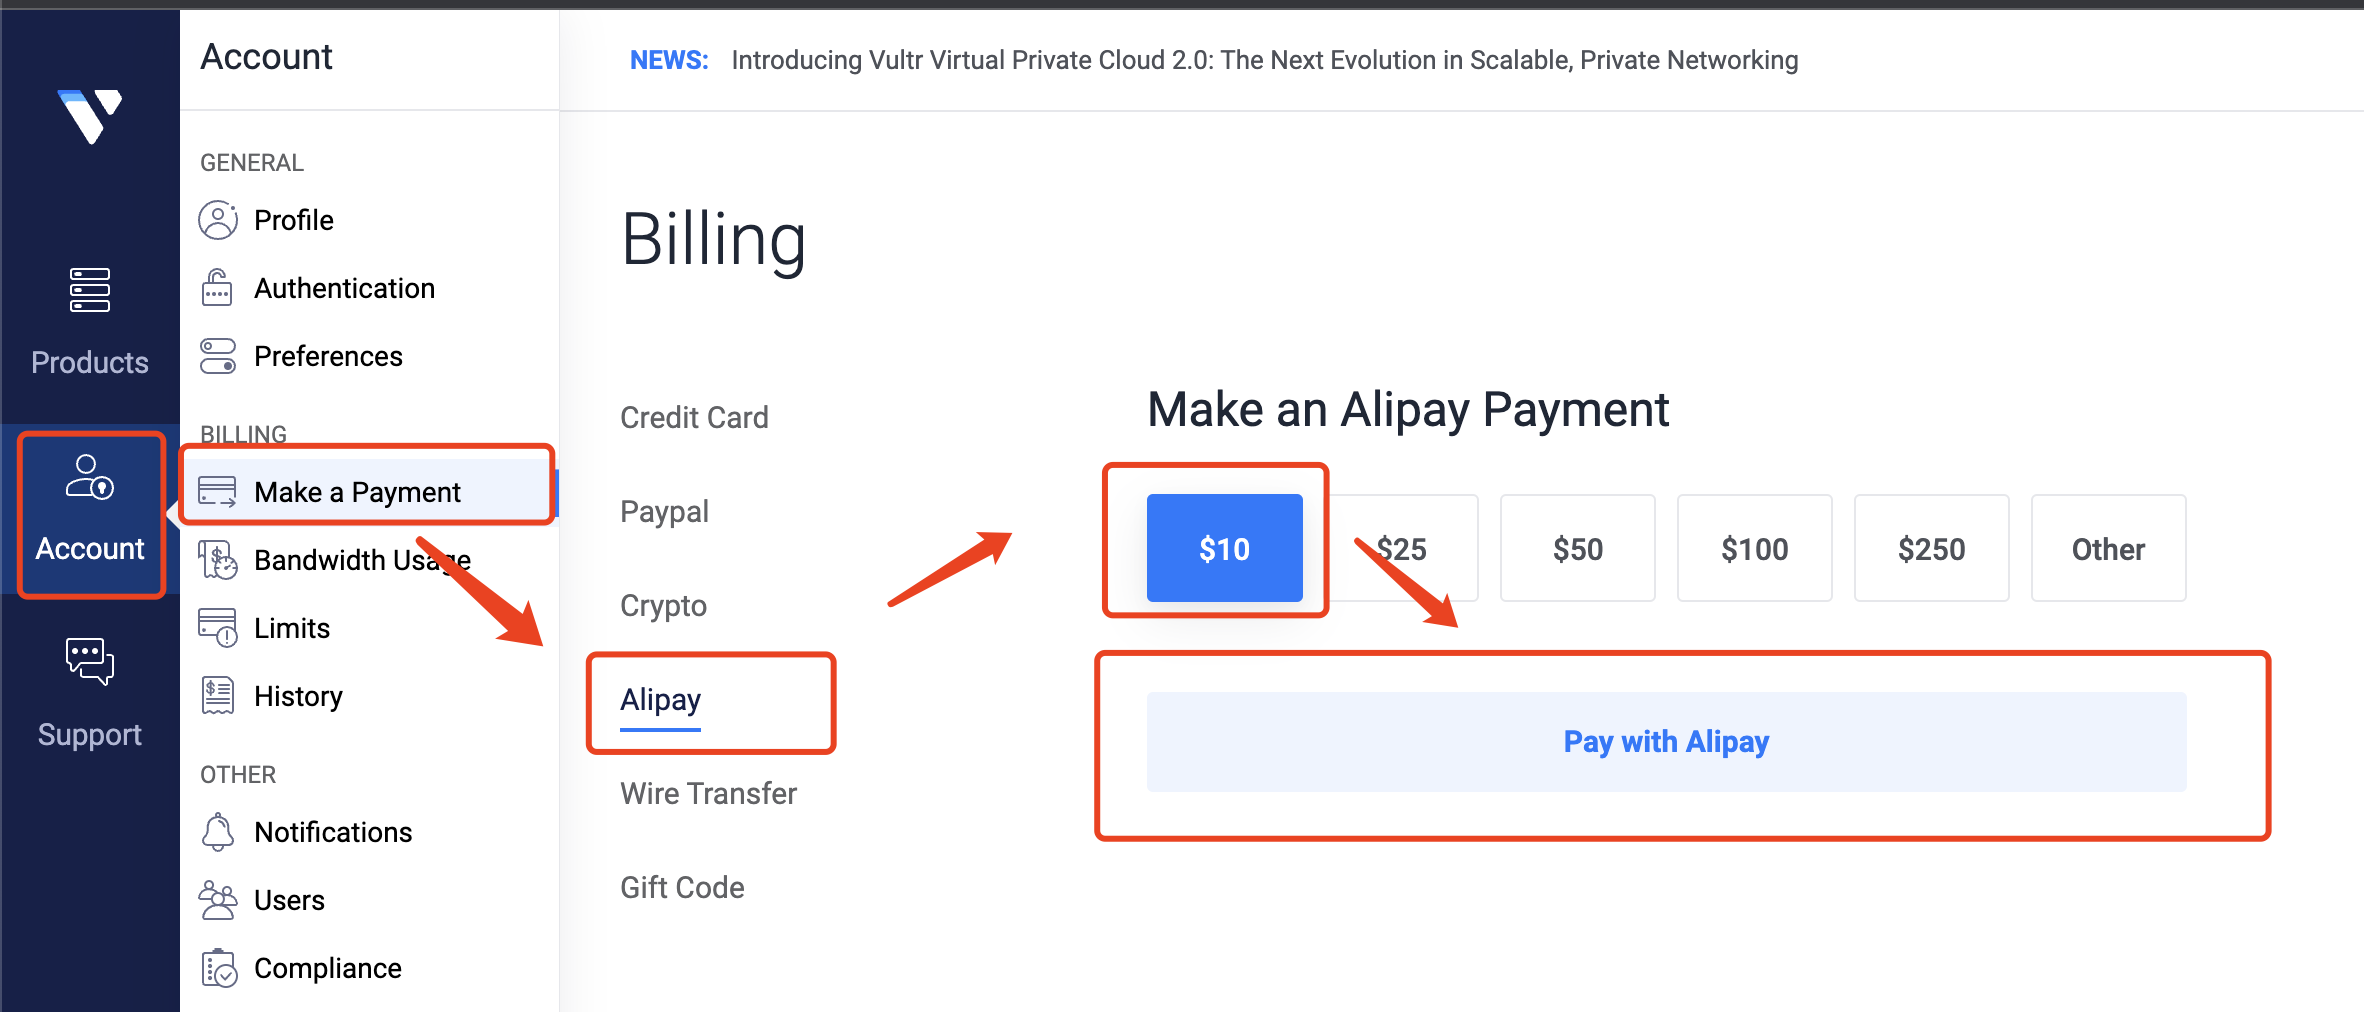
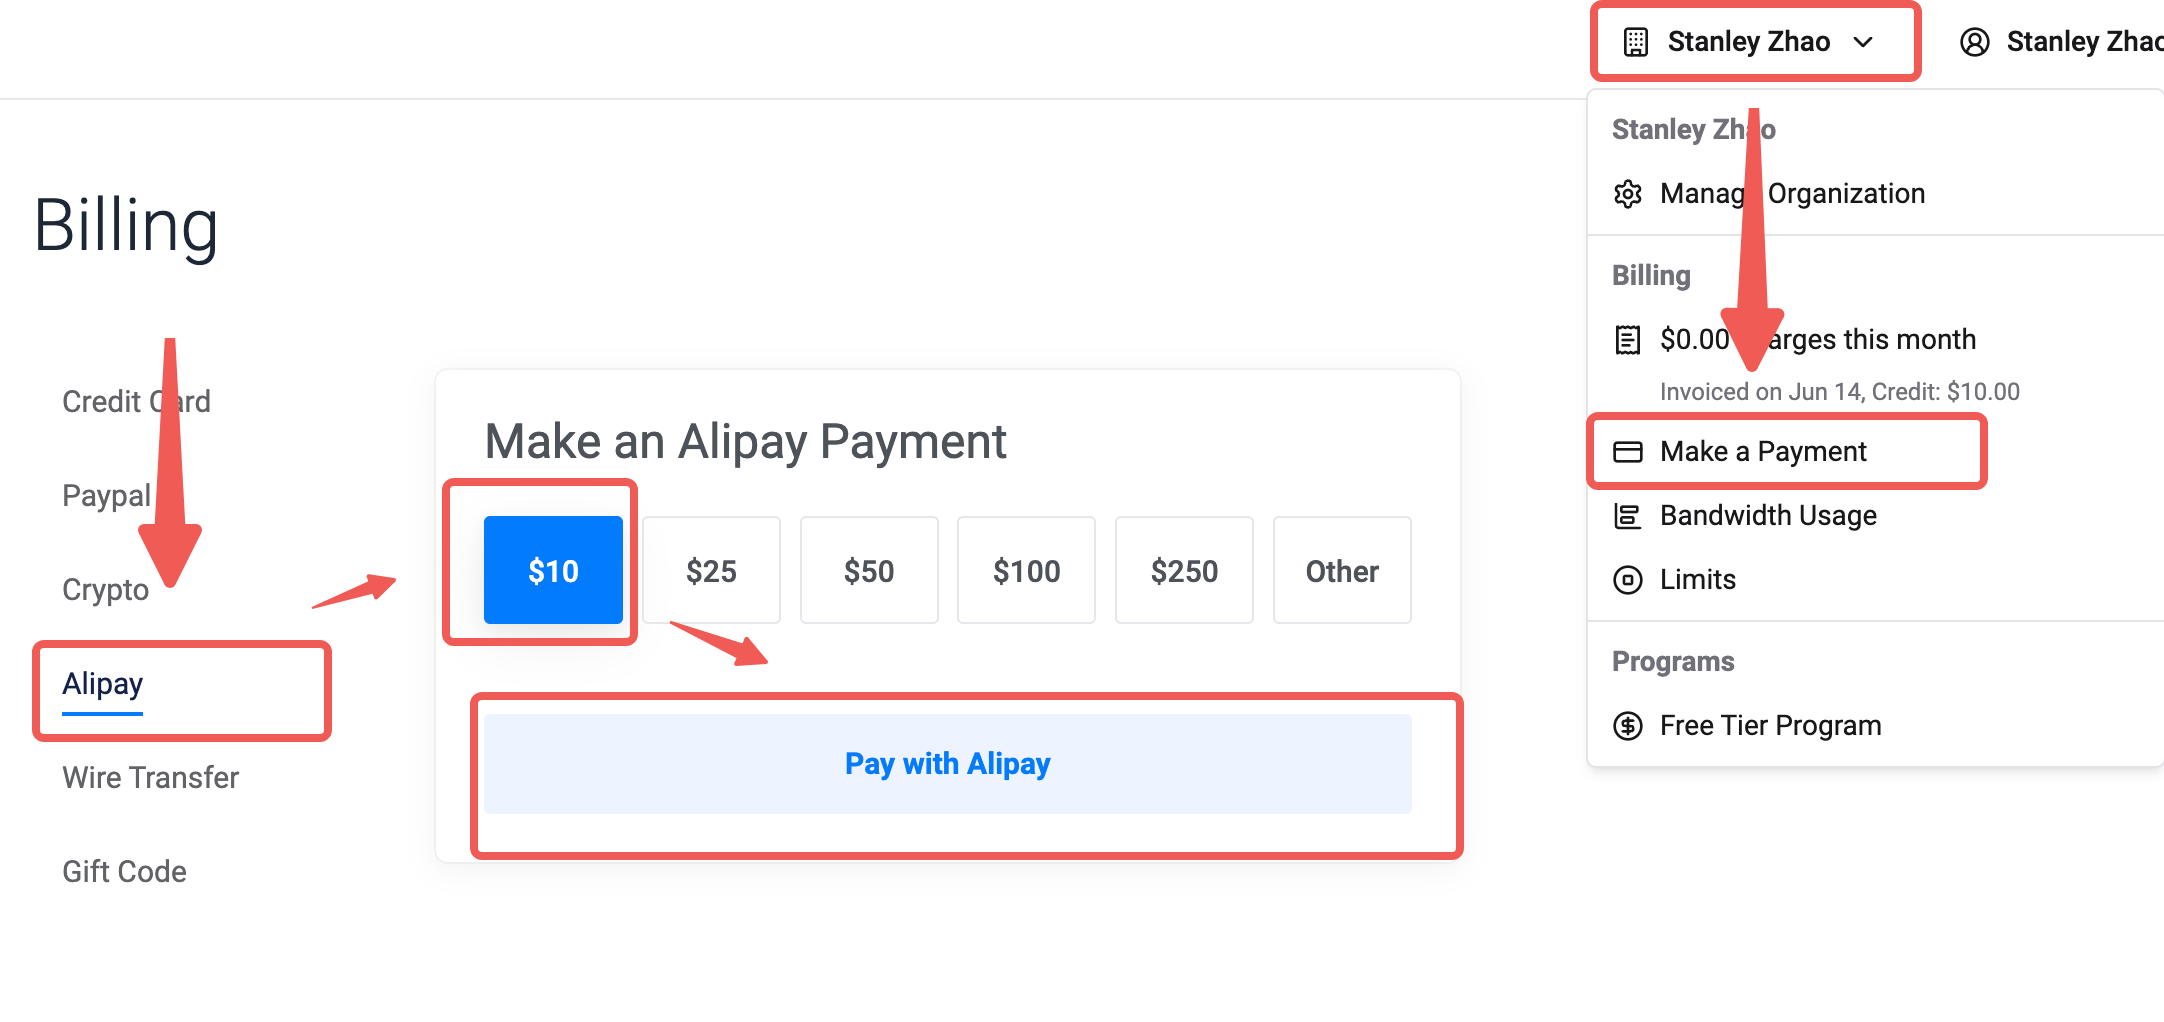
docs: 更新 Vultr 充值和部署服务器步骤的截图 (#84)

diff --git a/README_en.md b/README_en.md
@@ -34,11 +34,11 @@ I recommend Vultr because it offers servers in Japan with low latency and low pa
 
 ### 2. Deploying the Server
 
-Step 1: On your account page, click **Products**, then click the **+** button on the right to add a server.
+Step 1: In the left sidebar, click **Compute** → **Instances**, then click the **Deploy Server** button to add a server.
 
 ![](./images/choose_server.png)
 
-In the upper-right corner, select **Switch back to the old experience for a limited time** to return to the classic interface.
+In the upper-right corner, click **Switch to old version** to return to the classic interface.
 
 ![](./images/switch_back.png)
 

diff --git a/README.md b/README.md
@@ -30,11 +30,11 @@ Vultr推荐链接：https://www.vultr.com/?ref=7370522
 
 ### 2、部署服务器
 
-第一步：在个人页面点击Products然后再点右面的➕号按钮添加一个服务器
+第一步：在左侧菜单点击**Compute**→**Instances**，然后点击**Deploy Server**按钮添加一个服务器
 
 ![](./images/choose_server.png)
 
-在右上角选择**Switch back to the old experience for a limited time**切换回经典视图
+在右上角点击**Switch to old version**切换回经典视图
 
 ![](./images/switch_back.png)
 
